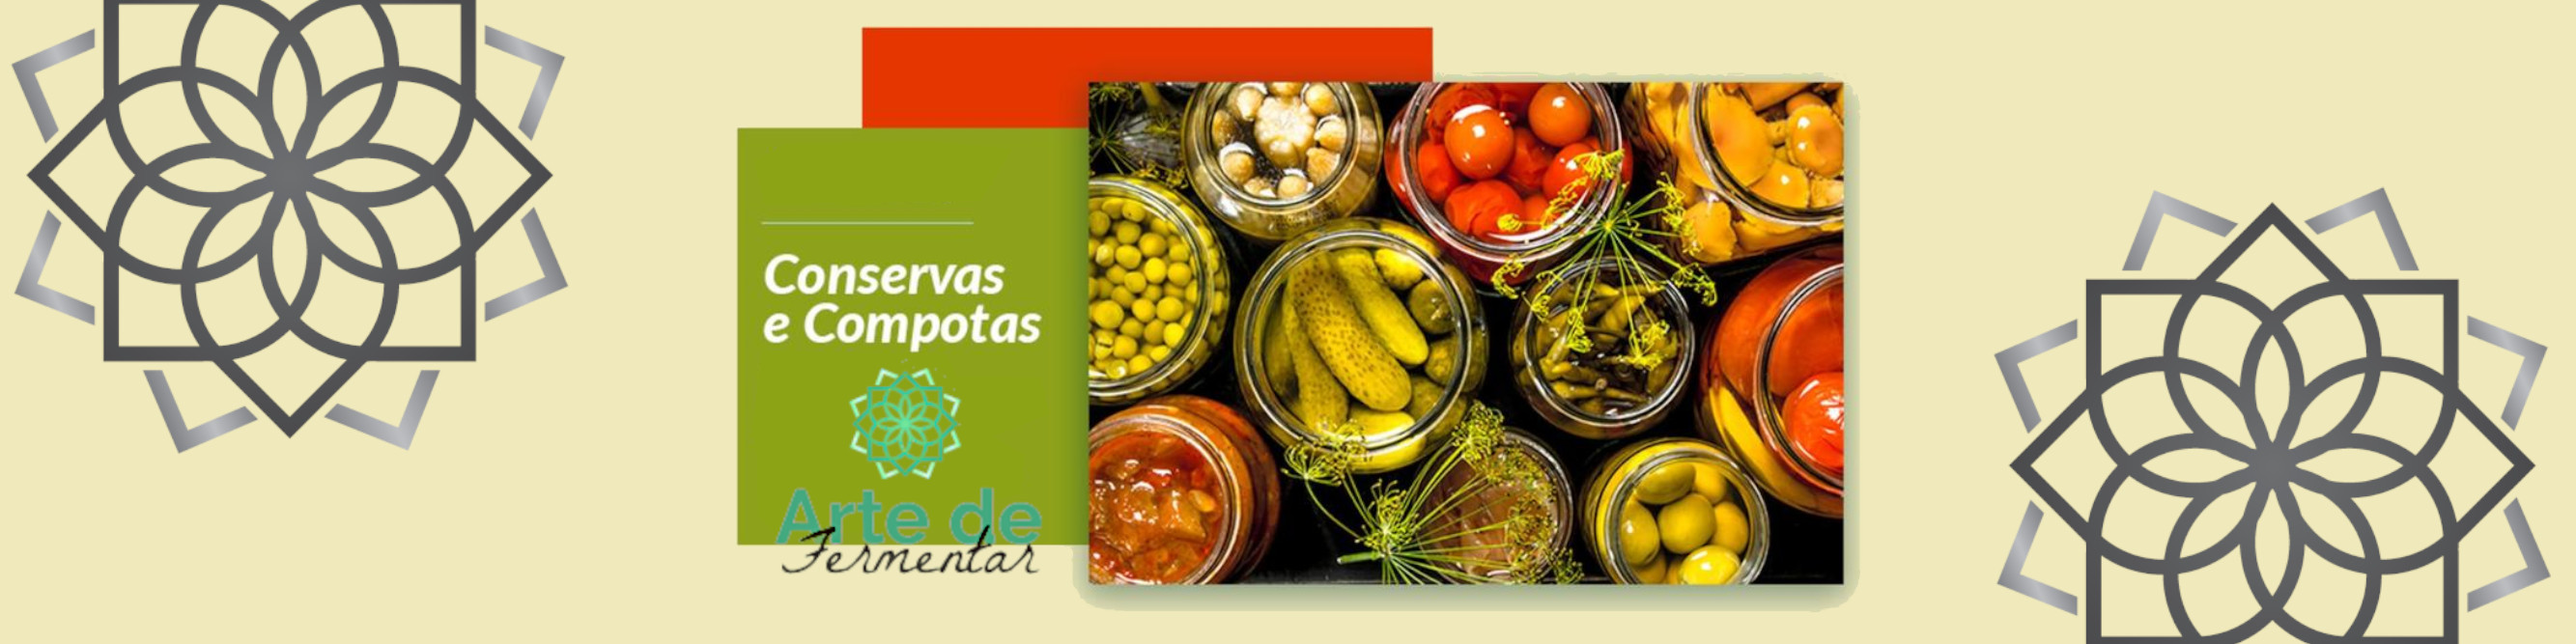
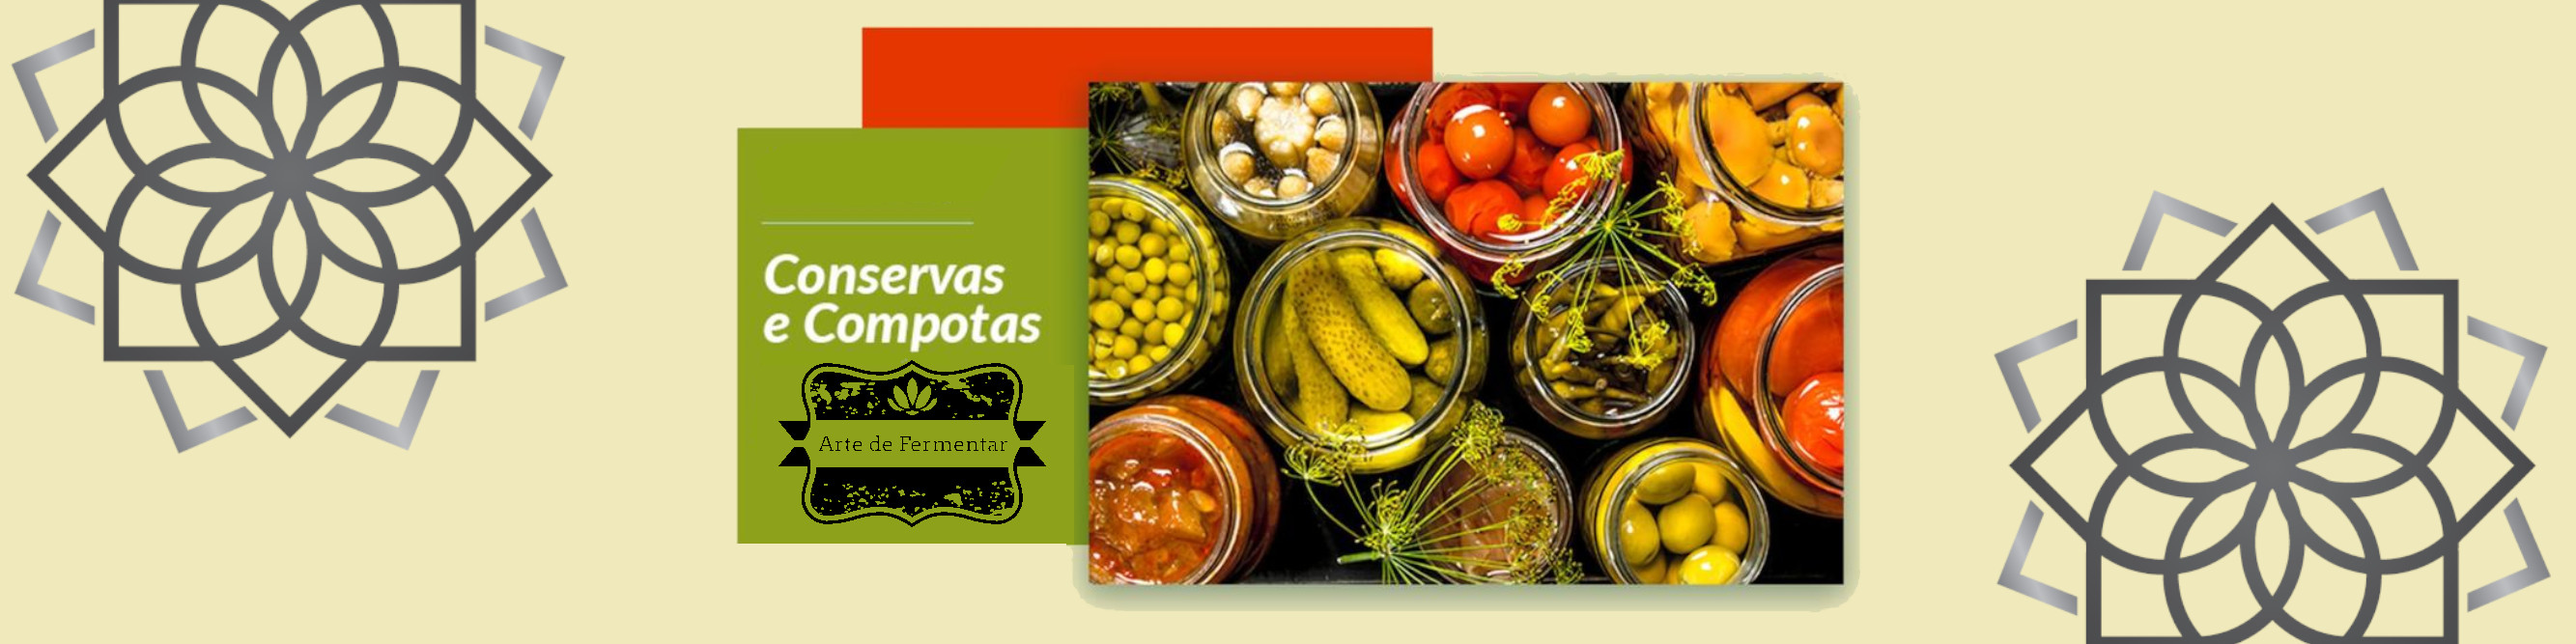
iyuer

Changed region(s): [[0.2801, 0.5697, 0.4046, 0.8996]]

diff --git a/index.html b/index.html
@@ -20,7 +20,7 @@
             <input type="checkbox" id="nav-check">
             <div class="nav-header">
                 <div class="nav-title">
-                    <img src="../artedefermentar/img/logo.png">
+                    <img src="../artedefermentar/img/logo2.png">
                 </div>
             </div>
             <div class="nav-btn">
@@ -62,59 +62,122 @@
 
     <div id="main">
         <article>
-            <div class="product-list">
-                <div class="product-box">
-                    <img src="../artedefermentar/img/product1.png" alt="Product 1">
-                    <h3>Product 1</h3>
+            <div class="product-container">
+
+                <div class="product-card">
+                    <img src="../artedefermentar/img/product1.png" alt="Product Name" class="product-image">
+                    <h3 class="product-name">Product Name</h3>
+                    <p class="product-description">Product Description</p>
+                    <div class="product-price">R$99.99</div>
+                    <button class="add-to-cart-button">Add to Cart</button>
                 </div>
-                <div class="product-box">
-                    <img src="../artedefermentar/img/product2.png" alt="Product 2">
-                    <h3>Product 2</h3>
+
+                <div class="product-card">
+                    <img src="../artedefermentar/img/product2.png" alt="Product Name" class="product-image">
+                    <h3 class="product-name">Product Name</h3>
+                    <p class="product-description">Product Description</p>
+                    <div class="product-price">
+                        <span class="original-price">R$99.99</span>
+                        <span class="discount-price">R$79.99</span>
+                    </div>
+                    <button class="add-to-cart-button">Add to Cart</button>
                 </div>
-                <div class="product-box">
-                    <img src="../artedefermentar/img/product3.png" alt="Product 3">
-                    <h3>Product 3</h3>
+
+                <div class="product-card">
+                    <img src="../artedefermentar/img/product3.png" alt="Product Name" class="product-image">
+                    <h3 class="product-name">Product Name</h3>
+                    <p class="product-description">Product Description</p>
+                    <div class="product-price">R$99.99</div>
+                    <button class="add-to-cart-button">Add to Cart</button>
                 </div>
-                <div class="product-box">
-                    <img src="../artedefermentar/img/product4.png" alt="Product 4">
-                    <h3>Product 4</h3>
+
+                <div class="product-card">
+                    <img src="../artedefermentar/img/product4.png" alt="Product Name" class="product-image">
+                    <h3 class="product-name">Product Name</h3>
+                    <p class="product-description">Product Description</p>
+                    <div class="product-price">
+                        <span class="original-price">R$99.99</span>
+                        <span class="discount-price">R$79.99</span>
+                    </div> <button class="add-to-cart-button">Add to Cart</button>
                 </div>
-                <div class="product-box">
-                    <img src="../artedefermentar/img/product5.png" alt="Product 5">
-                    <h3>Product 5</h3>
+
+                <div class="product-card">
+                    <img src="../artedefermentar/img/product4.png" alt="Product Name" class="product-image">
+                    <h3 class="product-name">Product Name</h3>
+                    <p class="product-description">Product Description</p>
+                    <div class="product-price">
+                        <span class="discount-price">R$79.99</span>
+                    </div> <button class="add-to-cart-button">Add to Cart</button>
                 </div>
-                <div class="product-box">
-                    <img src="../artedefermentar/img/product6.png" alt="Product 6">
-                    <h3>Product 6</h3>
+
+                <div class="product-card">
+                    <img src="../artedefermentar/img/product5.png" alt="Product Name" class="product-image">
+                    <h3 class="product-name">Product Name</h3>
+                    <p class="product-description">Product Description</p>
+                    <div class="product-price">
+                        <span class="original-price">R$99.99</span>
+                        <span class="discount-price">R$79.99</span>
+                    </div> <button class="add-to-cart-button">Add to Cart</button>
                 </div>
-                <div class="product-box">
-                    <img src="../artedefermentar/img/product7.png" alt="Product 7">
-                    <h3>Product 7</h3>
+
+                <div class="product-card">
+                    <img src="../artedefermentar/img/product6.png" alt="Product Name" class="product-image">
+                    <h3 class="product-name">Product Name</h3>
+                    <p class="product-description">Product Description</p>
+                    <div class="product-price">
+                        <span class="discount-price">R$79.99</span>
+                    </div> <button class="add-to-cart-button">Add to Cart</button>
                 </div>
-                <div class="product-box">
-                    <img src="../artedefermentar/img/product8.png" alt="Product 8">
-                    <h3>Product 8</h3>
+
+                <div class="product-card">
+                    <img src="../artedefermentar/img/product7.png" alt="Product Name" class="product-image">
+                    <h3 class="product-name">Product Name</h3>
+                    <p class="product-description">Product Description</p>
+                    <div class="product-price">
+                        <span class="original-price">R$99.99</span>
+                        <span class="discount-price">R$79.99</span>
+                    </div> <button class="add-to-cart-button">Add to Cart</button>
                 </div>
-                <div class="product-box">
-                    <img src="../artedefermentar/img/product9.png" alt="Product 9">
-                    <h3>Product 9</h3>
+
+                <div class="product-card">
+                    <img src="../artedefermentar/img/product8.png" alt="Product Name" class="product-image">
+                    <h3 class="product-name">Product Name</h3>
+                    <p class="product-description">Product Description</p>
+                    <div class="product-price">
+                        <span class="discount-price">R$79.99</span>
+                    </div> <button class="add-to-cart-button">Add to Cart</button>
                 </div>
-                <div class="product-box">
-                    <img src="../artedefermentar/img/product10.png" alt="Product 10">
-                    <h3>Product 10</h3>
+
+                <div class="product-card">
+                    <img src="../artedefermentar/img/product9.png" alt="Product Name" class="product-image">
+                    <h3 class="product-name">Product Name</h3>
+                    <p class="product-description">Product Description</p>
+                    <div class="product-price">
+                        <span class="discount-price">R$79.99</span>
+                    </div> <button class="add-to-cart-button">Add to Cart</button>
                 </div>
-                <div class="product-box">
-                    <img src="../artedefermentar/img/product10.png" alt="Product 11">
-                    <h3>Product 11</h3>
+
+                <div class="product-card">
+                    <img src="../artedefermentar/img/product10.png" alt="Product Name" class="product-image">
+                    <h3 class="product-name">Product Name</h3>
+                    <p class="product-description">Product Description</p>
+                    <div class="product-price">
+                        <span class="original-price">R$99.99</span>
+                        <span class="discount-price">R$79.99</span>
+                    </div> <button class="add-to-cart-button">Add to Cart</button>
                 </div>
-                <div class="product-box">
-                    <img src="../artedefermentar/img/product10.png" alt="Product 11">
-                    <h3>Product 12</h3>
+
+                <div class="product-card">
+                    <img src="../artedefermentar/img/product10.png" alt="Product Name" class="product-image">
+                    <h3 class="product-name">Product Name</h3>
+                    <p class="product-description">Product Description</p>
+                    <div class="product-price">
+                        <span class="discount-price">R$79.99</span>
+                    </div> <button class="add-to-cart-button">Add to Cart</button>
                 </div>
+
             </div>
         </article>
-        <nav>Nav</nav>
-        <aside>Aside</aside>
     </div>
     <footer>
         <section id="footer">

diff --git a/css/product.css b/css/product.css
@@ -1,16 +1,74 @@
-.product-list {
+.product-container {
+    display: flex;
+    flex-wrap: wrap;
+    width: 100%;
+    justify-content: center;
+}
+.product-card {
+    display: flex;
+    flex-direction: column;
+    align-items: center;
+    width: 300px;
+    border: 1px solid lightgray;
+    border-radius: 5px;
+    overflow: hidden;
+    box-shadow: 2px 2px 5px rgba(0, 0, 0, 0.1);
+    margin: 10px;
+    background-color: white;
+    padding-bottom: 1%;
+}
+
+.product-image {
+    width: 30%;
+}
+
+.product-name {
+    font-size: 1.25rem;
+    font-weight: bold;
+    margin: 10px 0;
+    text-align: center;
+}
+
+.product-description {
+    font-size: 0.875rem;
+    margin: 10px 0;
+    text-align: center;
+}
+
+.product-price {
+    font-size: 1.125rem;
+    font-weight: bold;
+    margin: 10px 0;
+    color: orange;
+}
+
+.add-to-cart-button {
+    padding: 10px 20px;
+    background-color: orange;
+    border: none;
+    border-radius: 5px;
+    color: white;
+    font-size: 0.875rem;
+    cursor: pointer;
+}
+
+.add-to-cart-button:hover {
+    background-color: darkorange;
+}
+
+.product-grid {
     display: flex;
     flex-wrap: wrap;
     justify-content: space-between;
 }
-
-.product-box {
-    flex: 1;
-    min-width: 199px;
-    margin: 10px;
-    text-align: center;
+.original-price {
+    text-decoration: line-through;
+    color: lightgray;
+    font-size: 0.875rem;
 }
 
-.product-box img{
-    width: 65%;
+.discount-price {
+    color: orange;
+    font-size: 1.125rem;
+    font-weight: bold;
 }

diff --git a/css/navbar.css b/css/navbar.css
@@ -7,7 +7,8 @@
 
 .nav img {
     margin-top: 5%;
-    width: 100%;
+    margin-left: 5%;
+    width: 90%;
 }
 
 .nav > .nav-header {
@@ -32,9 +33,7 @@
 
 .nav > .nav-links > a {
     display: inline-block;
-    padding-top: 2em;
-    padding-left: 1em;
-    padding-right: 1em;
+    padding: 2em;
     text-decoration: none;
     color: #000000;
 }

diff --git a/css/style.css b/css/style.css
@@ -30,9 +30,7 @@ body {
 #main > nav {
     order: -1;
 }
-article,
-nav,
-aside {
+article {
     padding: 1em;
 }
 header,
